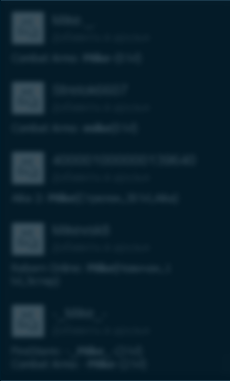
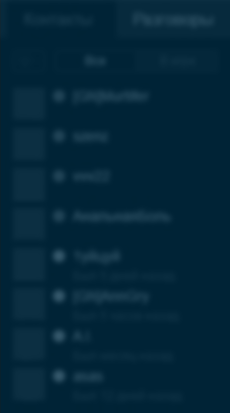
Update the back panel under the contact list

diff --git a/Application/Widgets/Messenger/View/Blocks/ContactList/EmptyContactListInfo.qml b/Application/Widgets/Messenger/View/Blocks/ContactList/EmptyContactListInfo.qml
@@ -87,30 +87,4 @@ Rectangle {
             }
         }
     }
-
-    Image {
-        x: 11
-        visible: !root.showSearchTipOnly
-
-        anchors {
-            bottom: parent.bottom
-            bottomMargin: 5
-        }
-
-        source: installPath + "/Assets/Images/Application/Widgets/Messenger/EmptyContactInfo/redArrow.png"
-
-        Text {
-            text: qsTr("EMPTY_CONTACT_LIST_SYSTEM_NOTIFICATION")
-            width: 105
-            color: "#ff4f02"
-            wrapMode: Text.WordWrap
-            font.pixelSize: 14
-            anchors {
-                top: parent.top
-                topMargin: -6
-                left: parent.right
-                leftMargin: 11
-            }
-        }
-    }
 }
